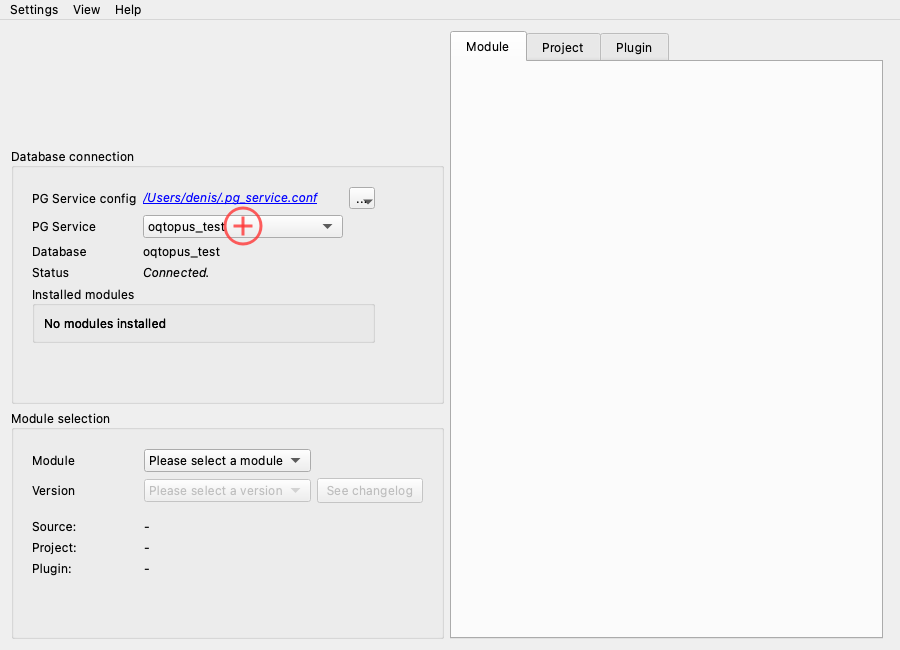
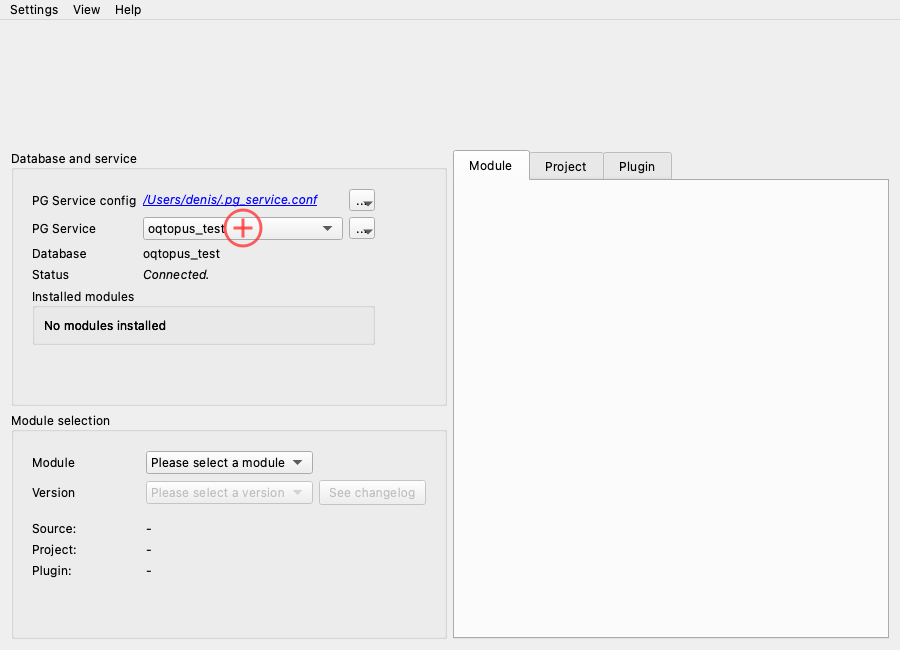
update docs for database access (#184)
* improve docs + screenshots

* fix roles

diff --git a/scripts/screenshots.py b/scripts/screenshots.py
@@ -19,6 +19,7 @@ This script drives the full GUI workflow against a real database
 08. Upgrade parameters dialog
 09. Upgrade in progress
 10. Role management dialog
+10b. Database access dialog
 11. Uninstall (cleanup, no screenshot)
 
 Screenshots are saved to docs/docs/assets/images/screenshots/.
@@ -72,6 +73,7 @@ _app = QApplication.instance() or QApplication(sys.argv)
 
 from oqtopus.core.module_package import ModulePackage  # noqa: E402
 from oqtopus.core.settings import Settings  # noqa: E402
+from oqtopus.gui.database_access_dialog import DatabaseAccessDialog  # noqa: E402
 from oqtopus.gui.install_dialog import InstallDialog  # noqa: E402
 from oqtopus.gui.main_dialog import MainDialog  # noqa: E402
 from oqtopus.gui.roles_manage_dialog import RolesManageDialog  # noqa: E402
@@ -511,6 +513,30 @@ def step_10_roles_dialog(dialog: MainDialog):
     roles_dlg.close()
 
 
+def step_10b_access_dialog(dialog: MainDialog):
+    """Step 10b – Open the database access dialog and screenshot it."""
+    conn = _connection(dialog)
+    cfg = _pum_config(dialog)
+    if cfg is None:
+        raise RuntimeError("PUM config not loaded for access dialog")
+
+    role_manager = cfg.role_manager()
+    result = role_manager.roles_inventory(connection=conn, include_superusers=True)
+    module_role_names = [rs.name for rs in result.configured_roles]
+    print(f"    opening access dialog ({len(module_role_names)} module roles)...")
+
+    access_dlg = DatabaseAccessDialog(
+        connection=conn,
+        module_role_names=module_role_names,
+        parent=dialog,
+    )
+    access_dlg.show()
+    _app.processEvents()
+
+    _grab(access_dlg, "10b_access_dialog.png")
+    access_dlg.close()
+
+
 def step_11_uninstall(dialog: MainDialog):
     """Step 11 – Uninstall the module to leave the database clean (no screenshot)."""
     mw = _mod_widget(dialog)
@@ -562,7 +588,7 @@ def confirm_workflow():
     print(f"  Branch:   {DEV_BRANCH}")
     print(f"  Output:   {OUTPUT_DIR}")
     print()
-    print("  Steps: connect → install → upgrade → roles → uninstall")
+    print("  Steps: connect → install → upgrade → roles → access → uninstall")
     print()
     answer = input("  Proceed? [y/N] ").strip().lower()
     if answer != "y":
@@ -618,6 +644,9 @@ def main():
     # Roles
     print("  10 Roles dialog...")
     step_10_roles_dialog(dialog)
+
+    print("  10b Access dialog...")
+    step_10b_access_dialog(dialog)
 
     # Cleanup: uninstall the module so the database is left clean
     print("  11 Uninstall (cleanup)...")

diff --git a/docs/docs/usage/module/role_management.md b/docs/docs/usage/module/role_management.md
@@ -39,7 +39,7 @@ Roles that have access to the module's schemas but are not part of the module co
 
 - **Create and grant roles** — create all missing module roles (optionally with a suffix) and grant the configured schema permissions.
 - **Create user** — create a new PostgreSQL user (a role with LOGIN privilege) with an optional password.
-- **Configure database access** — opens a dialog to manage CONNECT privileges on the database. Shows checkboxes for PUBLIC (grants all users access), each existing module role, and any other roles that have explicit CONNECT. Use this to restrict which roles can connect to the database.
+- **Configure database access** — opens a dialog to manage `CONNECT` privileges on the database (see below).
 
 ### Context menu (right-click)
 
@@ -62,3 +62,25 @@ Right-click on a **user** to access:
     Roles can also be created automatically during module installation or upgrade
     by enabling the **Create and grant roles** option in the install/upgrade dialog.
     The role management dialog is useful for post-installation adjustments.
+
+## Configure database access
+
+The **Configure database access** button opens a dedicated dialog for managing
+`CONNECT` privileges on the current database.
+
+![Database access dialog](../../assets/images/screenshots/10b_access_dialog.png)
+
+By default, PostgreSQL grants `CONNECT` to the `PUBLIC` pseudo-role, meaning
+**any** user on the server can connect to every database.  This dialog lets you
+tighten that:
+
+- **PUBLIC** — a checkbox at the top controls whether all users can connect.
+  When checked, individual role checkboxes are disabled (greyed out) because
+  they are redundant — everyone already has access.
+- **Module roles** — when PUBLIC is unchecked, you can grant or revoke
+  `CONNECT` for each existing module role individually.
+- **Other roles** — any non-module roles that have an explicit `CONNECT` grant
+  are also listed so you can revoke them if needed.
+
+Click **Apply** to execute the changes.  The dialog stays open so you can make
+further adjustments.  Changes take effect immediately on the server.
